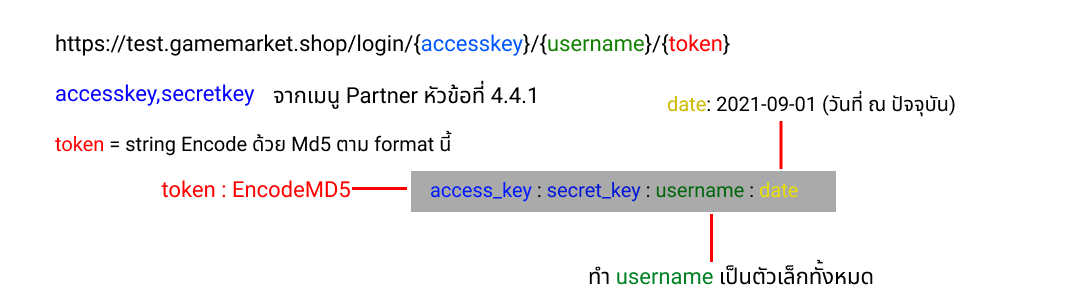
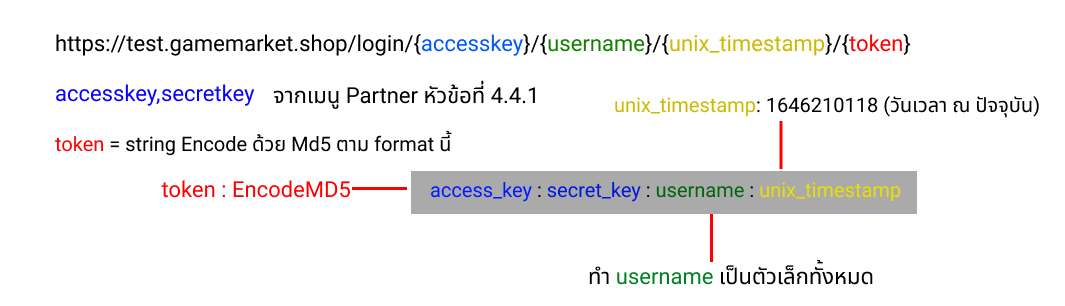
Add md5 timestamp

diff --git a/apireport.php b/apireport.php
@@ -346,7 +346,7 @@
                                     Url :
                                 </label>
                                 <label>
-                                    https://test-api.gamemarket.shop/api/v1/report/winlose
+                                    https://test-api.gamemarket.shop/api/v1/report/winlosev2
                                 </label>
 
                             </div>
@@ -516,7 +516,12 @@
         <span class="hljs-attr">"item_sale_amount"</span>:<span class="hljs-number"> 10000</span>,
         <span class="hljs-attr">"item_store_amount"</span>: <span class="hljs-number">39800</span>,
         <span class="hljs-attr">"withdraw"</span>: <span class="hljs-number">2300</span>,
-        <span class="hljs-attr">"outstanding"</span>: <span class="hljs-number">7700</span>
+        <span class="hljs-attr">"outstanding"</span>: <span class="hljs-number">7700</span>,
+        <span class="hljs-attr">"charge_point"</span>: <span class="hljs-number">15</span>,
+        <span class="hljs-attr">"gamemarket_amount"</span>: <span class="hljs-number">2.5</span>,
+        <span class="hljs-attr">"share_amount"</span>: <span class="hljs-number">0.45</span>,
+        <span class="hljs-attr">"wiwallet_amount"</span>: <span class="hljs-number">2.5</span>,
+        <span class="hljs-attr">"receive_amount"</span>: <span class="hljs-number">80</span>
     }
   ]
 }</code></pre>
@@ -1614,7 +1619,8 @@
         <span class="hljs-attr">"username"</span>: <span class="hljs-number">"korn"</span>,
         <span class="hljs-attr">"sale"</span>: <span class="hljs-number">29000</span>,
         <span class="hljs-attr">"withdraw"</span>: <span class="hljs-number">2300</span>,
-        <span class="hljs-attr">"remaining"</span>: <span class="hljs-number">26700</span>
+        <span class="hljs-attr">"remaining"</span>: <span class="hljs-number">26700</span>,
+        <span class="hljs-attr">"receive_amount"</span>: <span class="hljs-number">1840</span>
     },
 }</code></pre>
                                                     </div>

diff --git a/optional.php b/optional.php
@@ -28,7 +28,8 @@
                                 Url :
                             </label>
                             <label>
-                            https://test.gamemarket.shop/login/<span style="color:blue;">9M8jKHT9guac56h235!$G52</span>/<span style="color:#327939;">korn</span>/<span style="color:red;">022ad66bd6fbc18571dba30310352407</span>
+                            https://test.gamemarket.shop/login/<span style="color:blue;">9M8jKHT9guac56h235!$G52</span>/<span style="color:#327939;">korn</span>/<span style="color:#CDB900;">1646210118</span>
+                            /<span style="color:red;">022ad66bd6fbc18571dba30310352407</span>
                                
                             </label>
                         </div>
